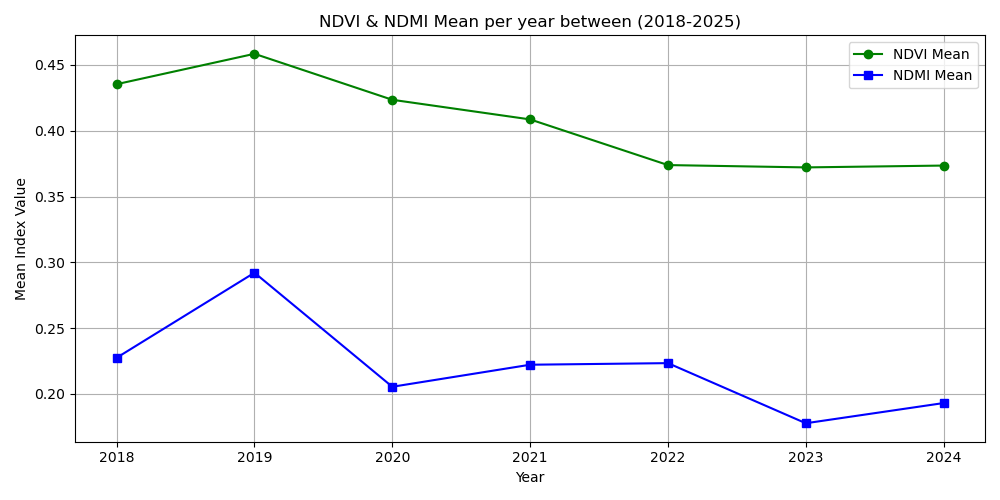
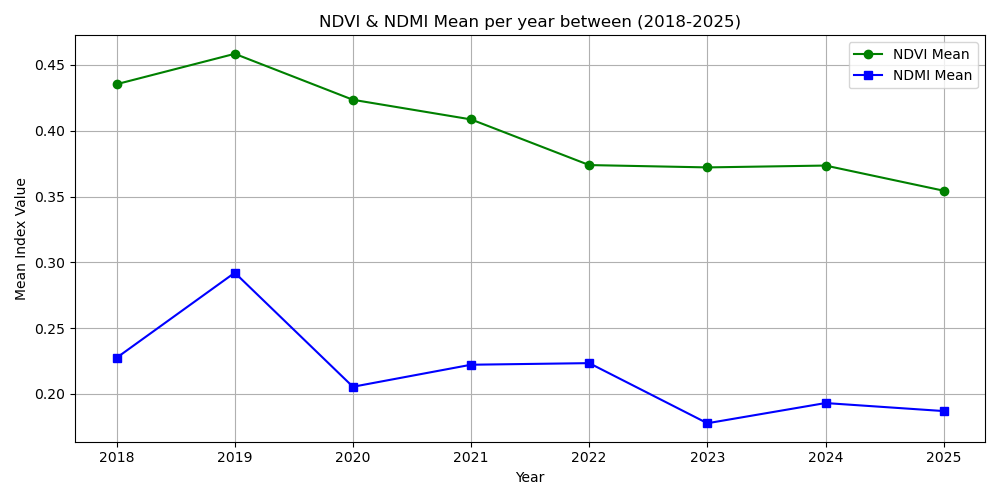
Updates

diff --git a/Tiff preview.py b/Tiff preview.py
@@ -1,10 +1,10 @@
 import matplotlib.pyplot as plt
 import rasterio
 
-with rasterio.open("data/masks/mask_2019.tif") as src:
+with rasterio.open("data/ndvi/ndvi_2019.tif") as src:
     img = src.read(1)
 
-plt.imshow(img, cmap='gray')
-plt.title("2018 Mask Preview")
+plt.imshow(img, cmap='Greens')
+plt.title("2019 NDVI Preview")
 plt.colorbar()
 plt.show()

diff --git a/Indices_Summary.py b/Indices_Summary.py
@@ -26,7 +26,7 @@ years = []
 ndvi_means = []
 ndmi_means = []
 
-for year in range (2018, 2025):
+for year in range (2018, 2026):
     ystr = str(year)
     ndvi_path = os.path.join(NDVI_DIR, f"ndvi_{ystr}.tif") # Path and format of naming for data
     ndmi_path = os.path.join(NDMI_DIR, f"ndmi_{ystr}.tif");
